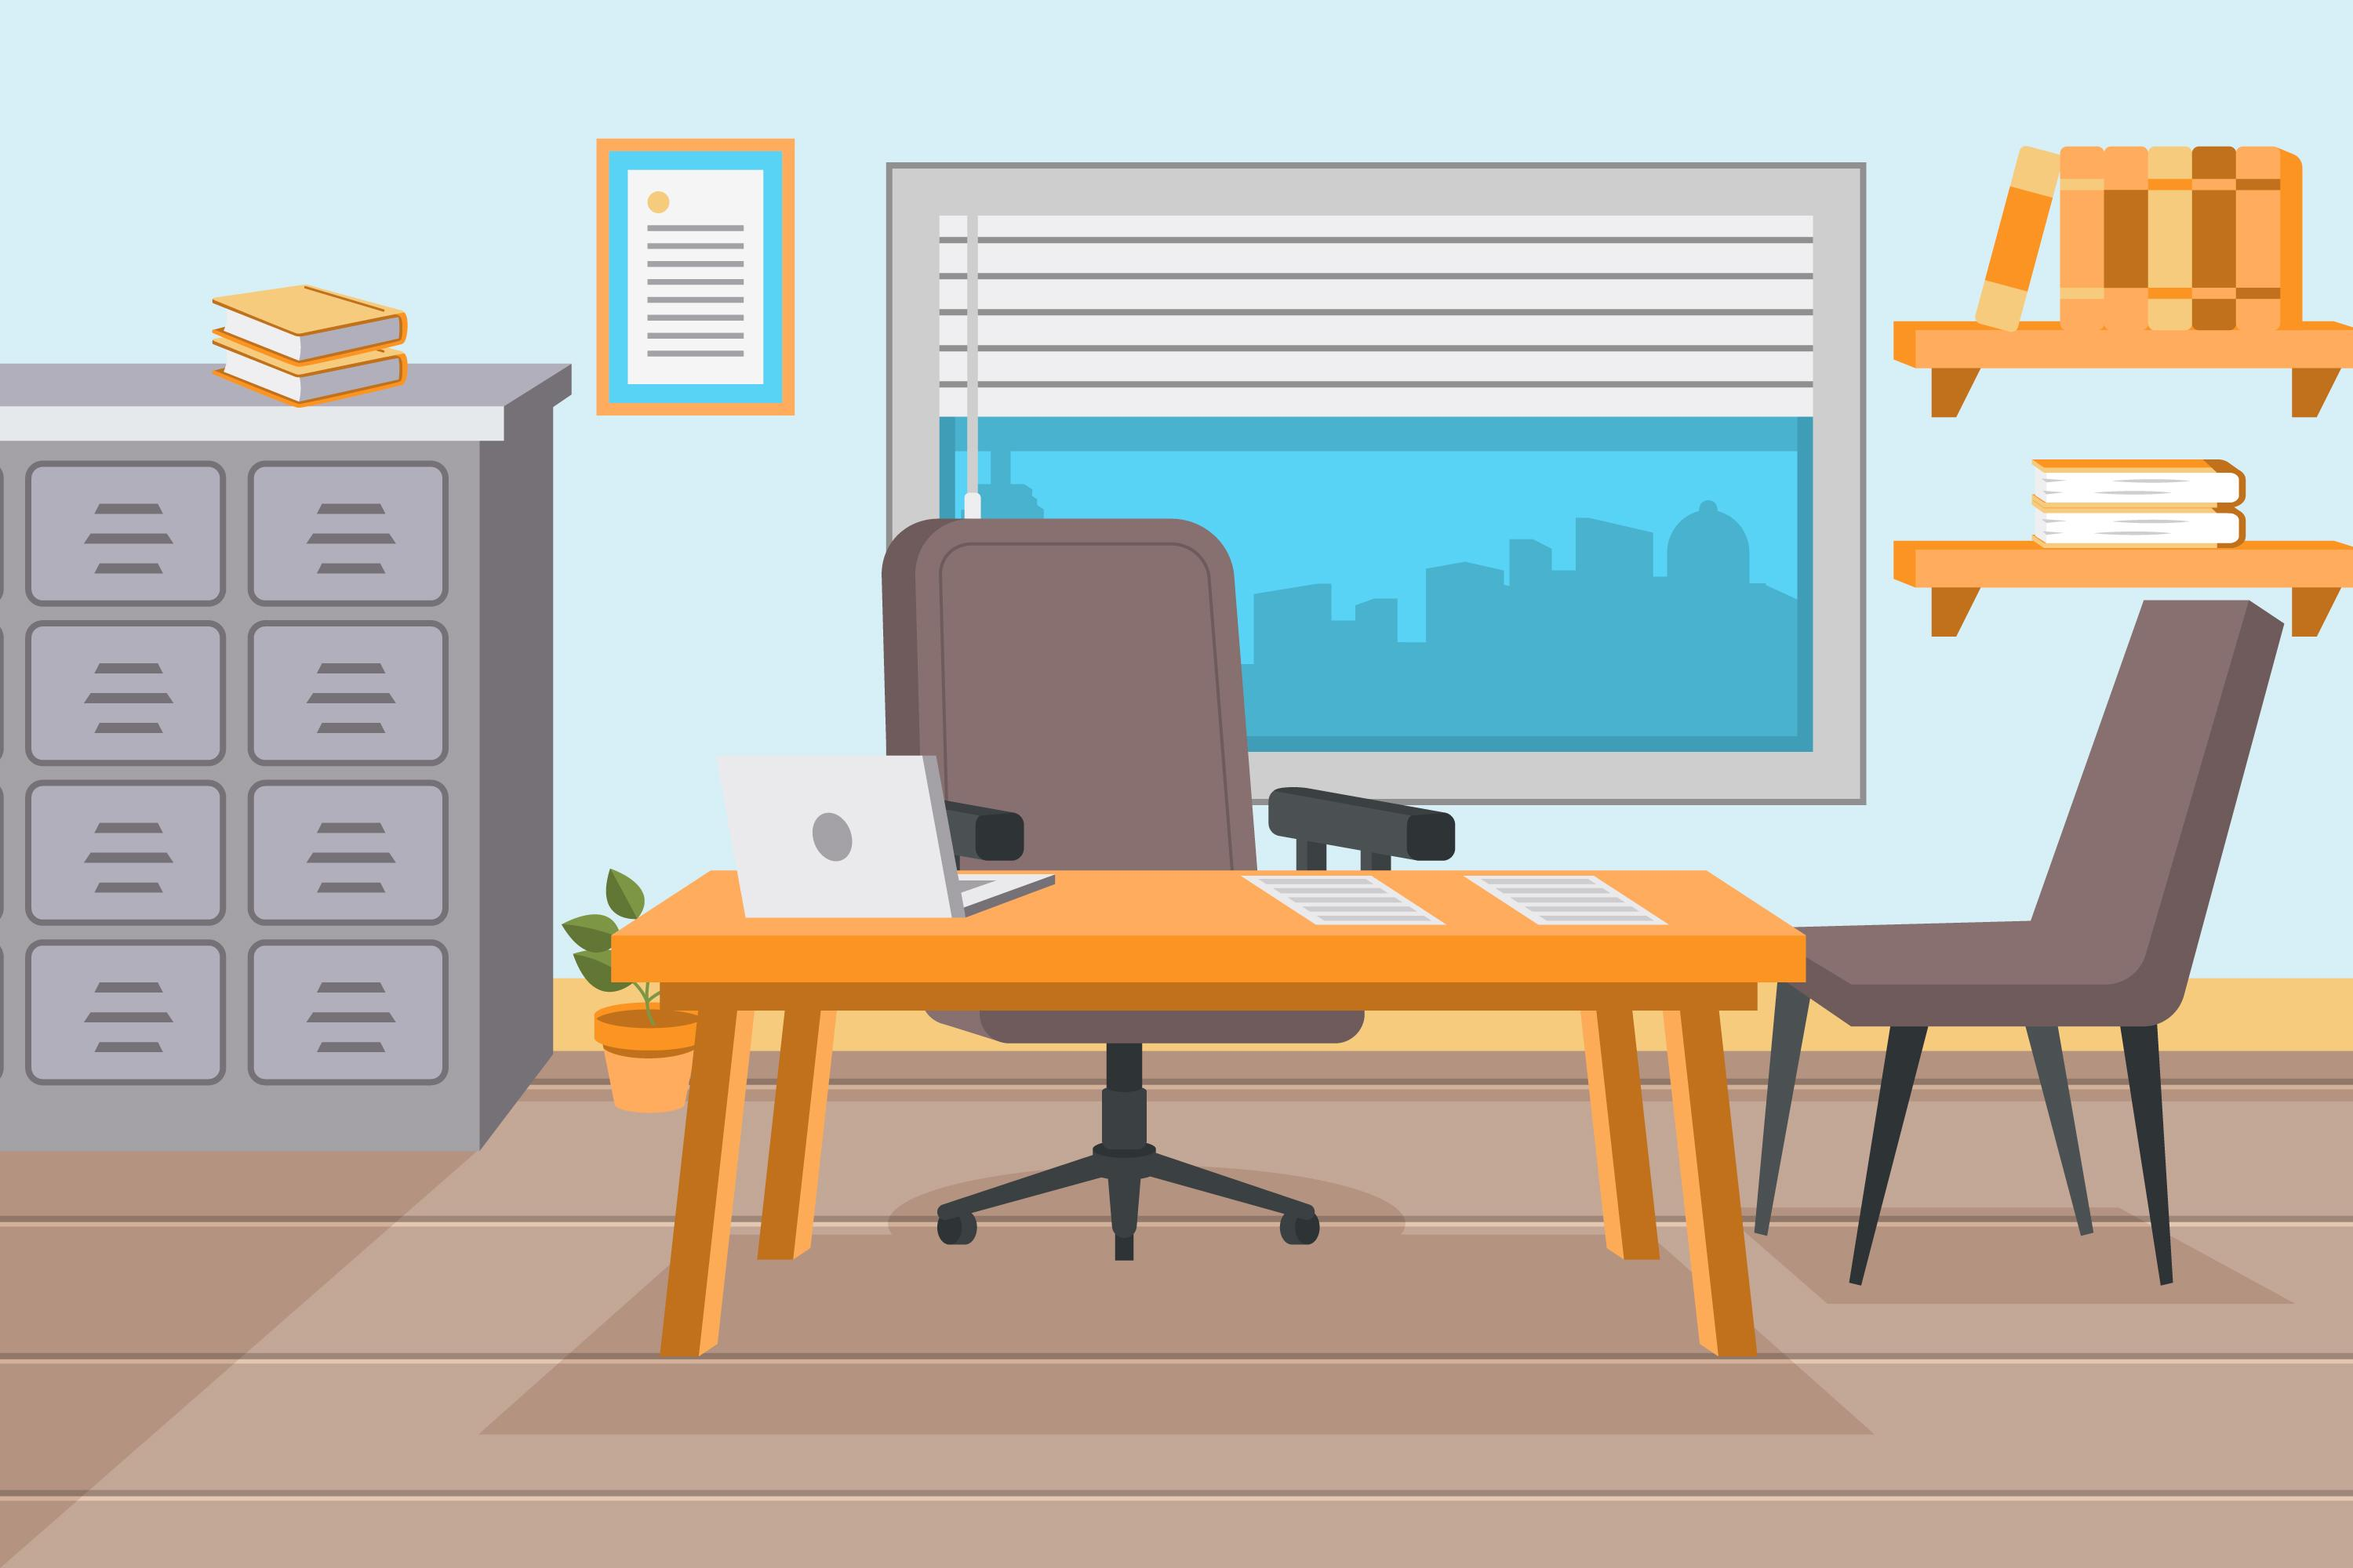
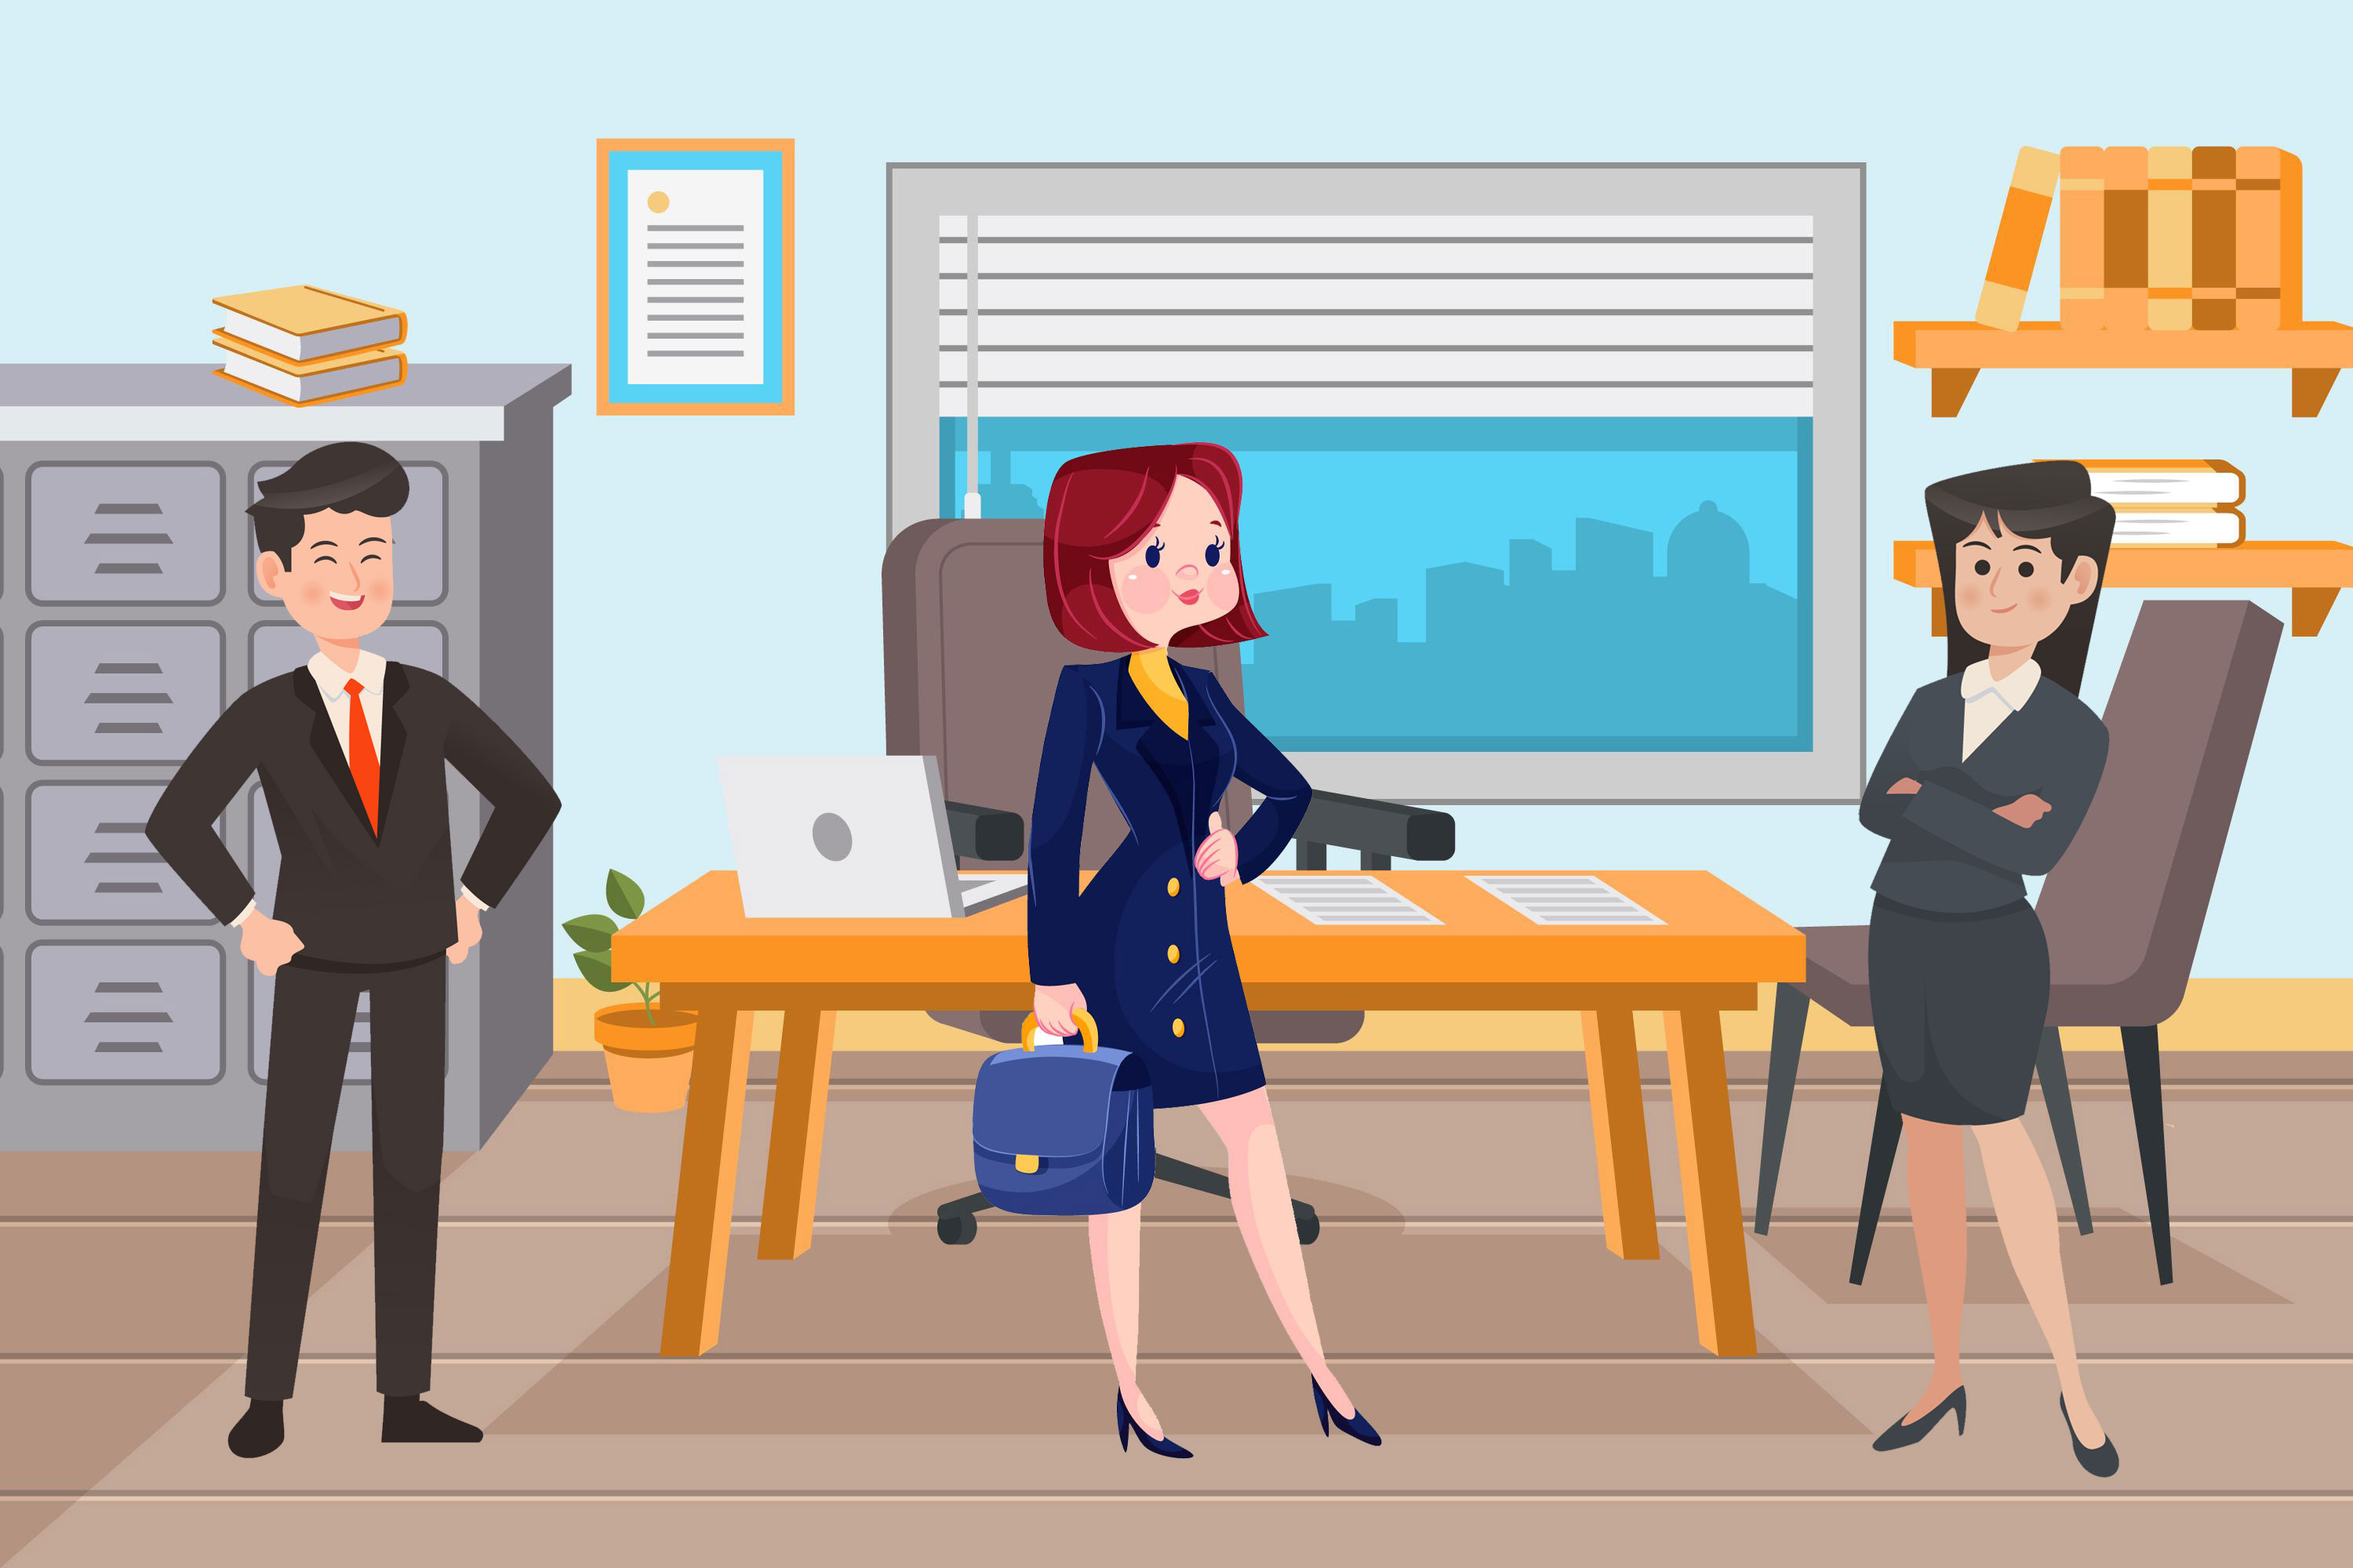
finish room 5

diff --git a/main.js b/main.js
@@ -462,17 +462,53 @@ function roomFive() {
   const createMap = document.createElement("map");
   createMap.setAttribute("name", "room5");
   createDiv.appendChild(createImage);
-  let createArea1 = createArea("100,300,200,400");
-  let createArea2 = createArea("850,500,980,650");
-  let createArea3 = createArea("1250,500,1350,600");
-  let createArea4 = createArea("1300,200,1400,350");
+  let createArea1 = createArea("50,200,370,800");
+  let createArea2 = createArea("500,200,820,800");
+  let createArea3 = createArea("1050,200,1370,800");
   createMap.appendChild(createArea1);
   createMap.appendChild(createArea2);
   createMap.appendChild(createArea3);
-  createMap.appendChild(createArea4);
   createDiv.appendChild(createMap);
 
   app.appendChild(createDiv);
+
+  createArea1.addEventListener("click", () => {
+    createFinalsDiv(
+      [
+        "Très présent sur LinkedIn",
+        "Compte Facebook en public",
+        "Photo de profil correct",
+        "Se décrit sur 2 lignes",
+        "S'y connait en informatique",
+      ],
+      "Gaetan"
+    );
+  });
+  createArea2.addEventListener("click", () => {
+    createFinalsDiv(
+      [
+        "Très peu présente sur LinkedIn",
+        "Publie toute sa vie sur Facebook",
+        "N'a pas de photo d'elle sur ses réseaux professionnel",
+        "Se décrit sur 1 paragraphe entier",
+        "A du mal à s'exprimer",
+      ],
+      "Marine"
+    );
+  });
+  createArea3.addEventListener("click", () => {
+    createFinalsDiv(
+      [
+        "Publie régulièrement sur LinkedIn",
+        "Son compte Facebook est privé",
+        "Photo d'elle souriante avec fond uni",
+        "N'a pas d'expérience dans la vente",
+        "S'exprime très bien",
+        "A déjà travaillé dans le développement informatique",
+      ],
+      "Naomie"
+    );
+  });
 }
 
 //Fonction de création de zone pour éviter les répétitions
@@ -524,4 +560,47 @@ function createDivInputLabel(type, id, name, text) {
   div.appendChild(label);
 
   return div;
+}
+function createFinalsDiv(elements, characterName) {
+  let createDiv = document.createElement("div");
+  createDiv.classList.add("divCharacters");
+  let title = document.createElement("h1");
+  title.innerHTML = characterName;
+  createDiv.appendChild(title);
+
+  let createUl = document.createElement("ul");
+  for (let elem of elements) {
+    let createLi = document.createElement("li");
+    createLi.innerHTML = elem;
+    createUl.appendChild(createLi);
+  }
+  createDiv.appendChild(createUl);
+  let createDivButton = document.createElement("div");
+  createDivButton.classList.add("divButtons");
+  let createButtonChoose = document.createElement("button");
+  createButtonChoose.classList.add("btn", "btn-success");
+  createButtonChoose.innerHTML = "Choisir " + characterName;
+  createDivButton.appendChild(createButtonChoose);
+  let createButtonClose = document.createElement("button");
+  createButtonClose.classList.add("btn", "btn-danger");
+  createButtonClose.innerHTML = "Trouver un autre candidat";
+  createDivButton.appendChild(createButtonClose);
+  createDiv.appendChild(createDivButton);
+  createButtonChoose.addEventListener("click", () => {
+    if (characterName !== "Naomie") {
+      roomLoose();
+    }
+  });
+  createButtonClose.addEventListener("click", () => {
+    createButtonClose.parentNode.parentNode.remove();
+  });
+  app.appendChild(createDiv);
+}
+
+function roomLoose() {
+  console.log("perdu");
+}
+
+function roomWin() {
+  console.log("gagné");
 }

diff --git a/style/style.css b/style/style.css
@@ -153,6 +153,19 @@
   object-position: 50% 50%;
   z-index: 1;
 }
+.app .divCharacters {
+  width: 100%;
+  padding: 10px;
+  position: absolute;
+  background-color: white;
+  width: 100%;
+  top: 200px;
+}
+.app .divCharacters .divButtons {
+  display: flex;
+  width: 100%;
+  justify-content: space-around;
+}
 .app .popUp {
   background-color: white;
   border: 2px solid black;

diff --git a/style/accueil.scss b/style/accueil.scss
@@ -159,6 +159,21 @@
 			object-position: 50% 50%;
 			z-index: 1;
 		}
+		
+	}
+	.divCharacters{
+		width: 100%;
+		padding: 10px;
+		position: absolute;
+			background-color: white;
+			
+			width: 100%;
+			top:200px;
+		.divButtons{
+			display: flex;
+			width: 100%;
+			justify-content: space-around;
+		}
 	}
 	.popUp{
 		background-color: white;
